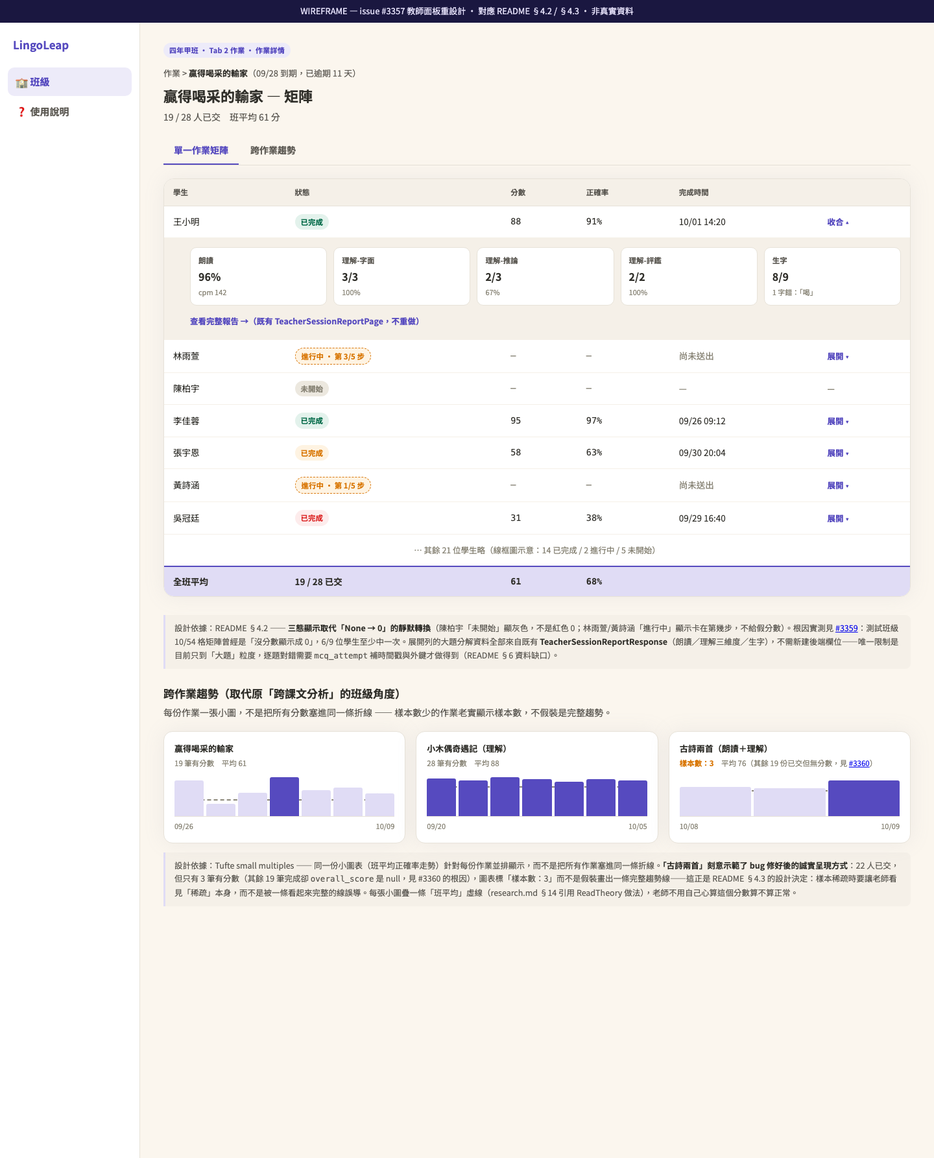
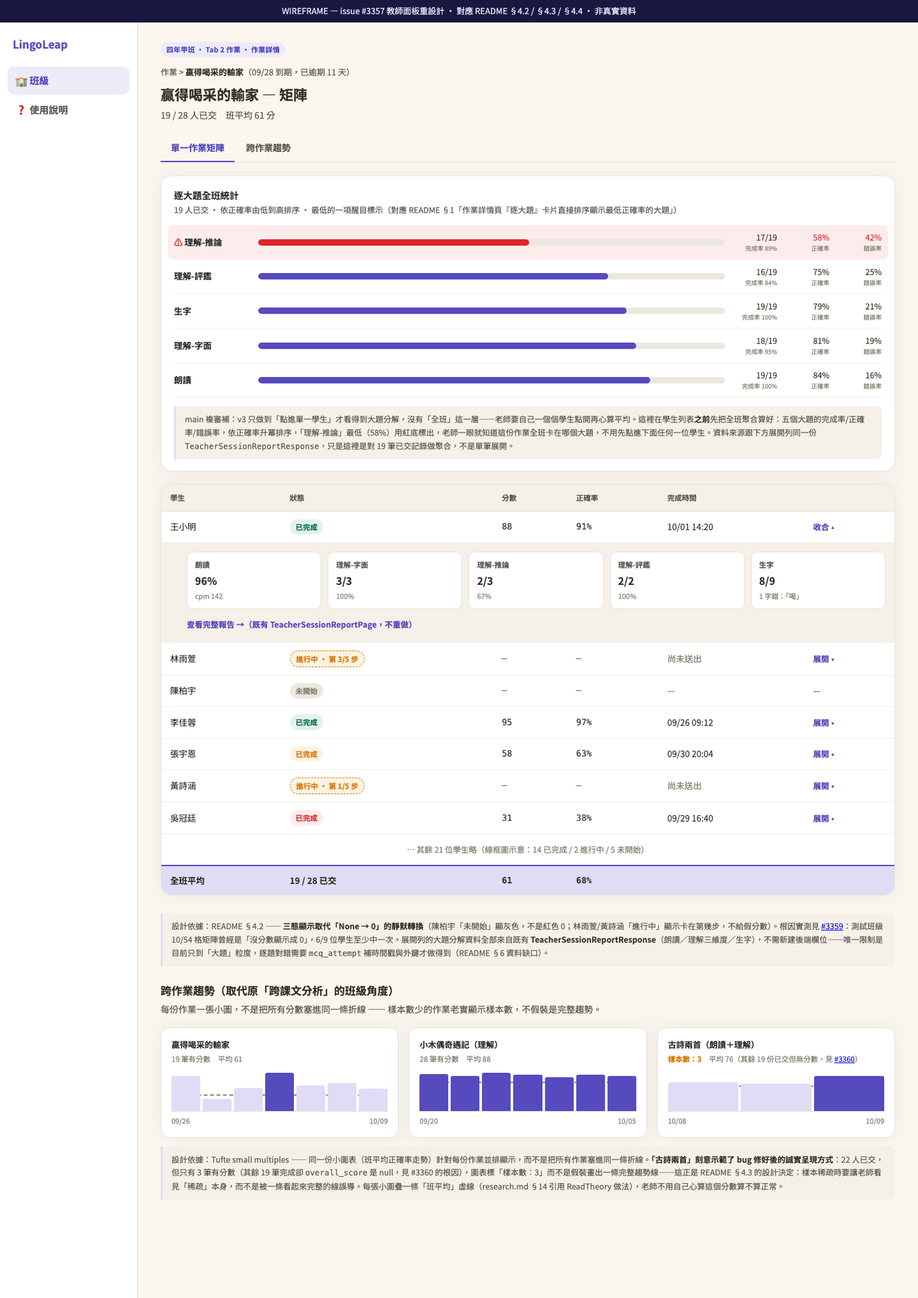
docs(#3357): add back class-wide assignment matrix + per-item class stats
main's review of PR #3365 caught two gaps against the original feedback
that v3 had lost:

1. The original teacher feedback literally asked for a "student x all
   assignments" grid ("矩陣那裡只看他出的作業……看懂每次上課的作業完成
   度") — v3 had split this into a today-overview assignment list plus a
   per-assignment student table, losing the single glanceable overview.
   Restored as README §4.1 + a new "班級作業總表" view in
   wireframes/assignments.html: 28 students x 6 assignments, sticky first
   row/column, 4 cell states (completed-with-score / in-progress /
   not-started / not-assigned — the last one demonstrated with a student
   who joined the class after an assignment was created, since
   AssignmentSubmission rows are only bulk-created at assignment-creation
   time per assignment_lifecycle_service.py).

2. README §1 already claimed "作業詳情頁『逐大題』卡片直接排序顯示最低
   正確率的大題" but assignment-matrix.html only had per-student expand
   rows, never a class-wide aggregate. Added a "逐大題全班統計" block at
   the top of the single-assignment matrix (README §4.3): completion
   rate / accuracy / error rate per sub-item (reading / literal /
   inferential / evaluative comprehension / vocab), sorted ascending by
   accuracy, worst one flagged.

README §4 renumbered (4.1 class matrix [new] / 4.2 root cause / 4.3
single-assignment design incl. new class-wide stats / 4.4 cross-
assignment trend) with every cross-reference in §2.2, §8, §10, §11,
§12, §13 updated to match. Both wireframes re-screenshotted and read
[…]

diff --git a/docs/design/teacher-panel-redesign/wireframes/assignments.html b/docs/design/teacher-panel-redesign/wireframes/assignments.html
@@ -59,10 +59,32 @@
   .section-title { font-size:15px; font-weight:700; margin:28px 0 4px; }
   .library-badge { font-size:11px; font-weight:700; color:var(--accent); }
   .wizard-note { font-size:12.5px; color:var(--on-surface-variant); }
+
+  /* 班級作業總表（§4.1）—— 學生 × 全部作業格狀矩陣 */
+  .viewtabs { display:flex; gap:2px; border-bottom:1px solid var(--surface-high); margin:0 0 18px; }
+  .viewtab { padding:10px 16px; font-size:14px; font-weight:700; color:var(--on-surface-variant); border-bottom:2.5px solid transparent; }
+  .viewtab.active { color:var(--accent); border-bottom-color:var(--accent); }
+  .matrix-scroll { overflow-x:auto; }
+  table.overview-matrix { border-collapse:separate; border-spacing:0; font-size:13px; min-width:860px; }
+  table.overview-matrix th, table.overview-matrix td { padding:8px 10px; border-bottom:1px solid var(--surface-low); border-right:1px solid var(--surface-low); text-align:center; white-space:nowrap; }
+  table.overview-matrix thead th { background:var(--surface-low); font-size:11px; color:var(--on-surface-variant); font-weight:700; position:sticky; top:0; z-index:2; }
+  table.overview-matrix thead th.stu-col-head { text-align:left; position:sticky; left:0; top:0; z-index:3; background:var(--surface-low); }
+  table.overview-matrix td.stu-col { text-align:left; font-weight:600; position:sticky; left:0; background:var(--surface-0); z-index:1; border-right:1px solid var(--surface-high); }
+  table.overview-matrix th.assign-col { cursor:default; }
+  table.overview-matrix th.assign-col .link { font-size:11.5px; }
+  .ov-cell { display:inline-flex; align-items:center; justify-content:center; min-width:34px; height:24px; border-radius:6px; font-weight:800; font-size:12px; }
+  .ov-done-high { background:var(--success-bg); color:var(--success); }
+  .ov-done-mid { background:var(--warning-bg); color:var(--warning); }
+  .ov-done-low { background:var(--error-bg); color:var(--error); }
+  .ov-inprogress { background:var(--surface-0); color:var(--warning); border:1px dashed var(--warning); font-size:10.5px; font-weight:700; }
+  .ov-notstarted { color:var(--on-surface-faint); }
+  .ov-unassigned { background:repeating-linear-gradient(135deg, var(--surface-low), var(--surface-low) 4px, var(--surface-container) 4px, var(--surface-container) 8px); color:var(--on-surface-faint); font-size:10px; }
+  .matrix-legend { display:flex; gap:16px; flex-wrap:wrap; font-size:12px; color:var(--on-surface-variant); margin:10px 0 0; }
+  .matrix-legend .lg-item { display:flex; align-items:center; gap:6px; }
 </style>
 </head>
 <body>
-<div class="wf-banner">WIREFRAME — issue #3357 教師面板重設計 · 對應 README §3 / §4.3 · 非真實資料</div>
+<div class="wf-banner">WIREFRAME — issue #3357 教師面板重設計 · 對應 README §3 / §4.1 / §4.4 · 非真實資料</div>
 <div class="wf-shell">
   <div class="wf-sidebar">
     <div class="wf-logo">LingoLeap</div>
@@ -87,6 +109,108 @@
       <span class="tab">錯字總表</span>
       <span class="tab">協同教師</span>
     </div>
+
+    <div class="viewtabs">
+      <span class="viewtab active">班級作業總表（預設畫面）</span>
+      <span class="viewtab">清單檢視</span>
+    </div>
+
+    <div class="wf-card" style="padding:18px 20px 14px;">
+      <div class="section-title" style="margin-bottom:2px;">班級作業總表（學生 × 全部作業）</div>
+      <p class="wizard-note" style="margin-bottom:14px;">回應現場回饋「矩陣那裡只看他出的作業……看懂每次上課的作業完成度」—— 一張格子看完整班全部正式作業的完成狀況，不用一份一份作業點進去。點欄位頂端的作業名稱 → 進入該作業的單一作業矩陣（逐大題統計＋橫向展開）；點列首學生姓名 → 進入學生個人頁。</p>
+      <div class="matrix-scroll">
+        <table class="overview-matrix">
+          <thead>
+            <tr>
+              <th class="stu-col-head">學生</th>
+              <th class="assign-col"><span class="link">贏得喝采的輸家</span><br>09/28 逾期</th>
+              <th class="assign-col"><span class="link">古詩兩首</span><br>10/09 今天</th>
+              <th class="assign-col"><span class="link">小木偶奇遇記</span><br>10/05 已過期</th>
+              <th class="assign-col"><span class="link">月亮的秘密</span><br>10/16</th>
+              <th class="assign-col"><span class="link">阿嬤的菜園</span><br>10/23</th>
+              <th class="assign-col"><span class="link">科學小偵探</span><br>10/30（草稿）</th>
+            </tr>
+          </thead>
+          <tbody>
+            <tr>
+              <td class="stu-col"><span class="link">王小明</span></td>
+              <td><span class="ov-cell ov-done-high">88</span></td>
+              <td><span class="ov-cell ov-inprogress">3/5</span></td>
+              <td><span class="ov-cell ov-done-high">92</span></td>
+              <td class="ov-notstarted">—</td>
+              <td class="ov-notstarted">—</td>
+              <td><span class="ov-cell ov-unassigned">草稿</span></td>
+            </tr>
+            <tr>
+              <td class="stu-col"><span class="link">林雨萱</span></td>
+              <td><span class="ov-cell ov-inprogress">3/5</span></td>
+              <td class="ov-notstarted">—</td>
+              <td><span class="ov-cell ov-done-high">88</span></td>
+              <td class="ov-notstarted">—</td>
+              <td class="ov-notstarted">—</td>
+              <td><span class="ov-cell ov-unassigned">草稿</span></td>
+            </tr>
+            <tr>
+              <td class="stu-col"><span class="link">陳柏宇</span></td>
+              <td class="ov-notstarted">未開始</td>
+              <td class="ov-notstarted">—</td>
+              <td><span class="ov-cell ov-done-mid">64</span></td>
+              <td class="ov-notstarted">—</td>
+              <td class="ov-notstarted">—</td>
+              <td><span class="ov-cell ov-unassigned">草稿</span></td>
+            </tr>
+            <tr>
+              <td class="stu-col"><span class="link">李佳蓉</span></td>
+              <td><span class="ov-cell ov-done-high">95</span></td>
+              <td><span class="ov-cell ov-done-high">91</span></td>
+              <td><span class="ov-cell ov-done-high">97</span></td>
+              <td><span class="ov-cell ov-done-high">90</span></td>
+              <td class="ov-notstarted">—</td>
+              <td><span class="ov-cell ov-unassigned">草稿</span></td>
+            </tr>
+            <tr>
+              <td class="stu-col"><span class="link">張宇恩</span></td>
+              <td><span class="ov-cell ov-done-mid">58</span></td>
+              <td class="ov-notstarted">未開始</td>
+              <td><span class="ov-cell ov-done-mid">61</span></td>
+              <td class="ov-notstarted">—</td>
+              <td class="ov-notstarted">—</td>
+              <td><span class="ov-cell ov-unassigned">草稿</span></td>
+            </tr>
+            <tr>
+              <td class="stu-col"><span class="link">吳冠廷</span></td>
+              <td><span class="ov-cell ov-done-low">31</span></td>
+              <td><span class="ov-cell ov-inprogress">1/5</span></td>
+              <td><span class="ov-cell ov-done-low">45</span></td>
+              <td class="ov-notstarted">—</td>
+              <td class="ov-notstarted">—</td>
+              <td><span class="ov-cell ov-unassigned">草稿</span></td>
+            </tr>
+            <tr>
+              <td class="stu-col" style="color:var(--on-surface-faint);">邱柏丞<span style="font-size:10px; font-weight:400;">（10/02 新轉入）</span></td>
+              <td><span class="ov-cell ov-unassigned">未指派</span></td>
+              <td class="ov-notstarted">未開始</td>
+              <td><span class="ov-cell ov-unassigned">未指派</span></td>
+              <td class="ov-notstarted">—</td>
+              <td class="ov-notstarted">—</td>
+              <td><span class="ov-cell ov-unassigned">草稿</span></td>
+            </tr>
+            <tr>
+              <td colspan="7" style="text-align:center; color:var(--on-surface-faint); font-size:12px; padding:10px;">… 其餘 21 位學生略（線框圖示意）</td>
+            </tr>
+          </tbody>
+        </table>
+      </div>
+      <div class="matrix-legend">
+        <span class="lg-item"><span class="ov-cell ov-done-high">88</span> 已完成（依分數上色）</span>
+        <span class="lg-item"><span class="ov-cell ov-inprogress">3/5</span> 進行中（第幾步）</span>
+        <span class="lg-item" style="color:var(--on-surface-faint);">— 未開始</span>
+        <span class="lg-item"><span class="ov-cell ov-unassigned">未指派</span> 不在此作業指派名單內</span>
+      </div>
+      <p class="annotation">設計依據：README §4.1 —— main 複審指出 v3 漏掉這張「學生 × 全部作業」總表，只拆成清單＋單一作業矩陣，老師仍要一份一份點進去拼湊完成度全貌。第一欄（學生）與第一列（作業）皆 <code>position:sticky</code>，橫向很多份作業、縱向很多學生時仍看得到對照軸。「邱柏丞」示範<b>未指派</b>狀態的真實成因：10/02 才轉入班級，而 <code>assignment_lifecycle_service.py</code> 的 <code>AssignmentSubmission</code> 是在建立作業當下對「當時」在班學生批次建立，之後轉入的學生不會回溯補上——這不是 bug，是設計決定，但矩陣要誠實呈現這個狀態，不能跟「未開始」混在一起（未指派 = 系統沒有要求他做；未開始 = 系統要求了但他還沒動手，兩者對老師的下一步行動完全不同）。</p>
+    </div>
+
+    <p class="wizard-note" style="margin:4px 0 18px;">↓ 清單檢視（既有畫面，點上方「清單檢視」或任一作業的「查看矩陣」也可切換到對應頁）</p>
 
     <div class="row-between">
       <div class="pillbar">

diff --git a/docs/design/teacher-panel-redesign/wireframes/assignment-matrix.html b/docs/design/teacher-panel-redesign/wireframes/assignment-matrix.html
@@ -72,10 +72,25 @@
   .sm-avgline::after { content:"班平均"; position:absolute; right:0; top:-14px; font-size:9.5px; color:var(--on-surface-faint); background:var(--surface-0); padding:0 3px; }
   .sm-footer { display:flex; justify-content:space-between; font-size:11px; color:var(--on-surface-faint); margin-top:6px; }
   .sparse-tag { color:var(--warning); font-weight:700; }
+
+  /* 逐大題全班統計（§4.3，main 複審補） */
+  .item-stats-card { background:var(--surface-0); border:1px solid var(--surface-high); border-radius:16px; padding:18px 20px; box-shadow:var(--shadow-card); margin-bottom:20px; }
+  .item-stats-title { font-size:14.5px; font-weight:700; margin:0 0 2px; }
+  .item-stats-sub { font-size:12.5px; color:var(--on-surface-variant); margin:0 0 14px; }
+  .item-row { display:grid; grid-template-columns:120px 1fr 70px 70px 70px; align-items:center; gap:12px; padding:9px 0; border-bottom:1px solid var(--surface-low); }
+  .item-row:last-child { border-bottom:none; }
+  .item-row.worst { background:var(--error-bg); margin:0 -10px; padding:9px 10px; border-radius:8px; border-bottom:none; }
+  .item-name { font-size:13.5px; font-weight:700; }
+  .item-row.worst .item-name::before { content:"⚠ "; color:var(--error); }
+  .item-bar-wrap { height:10px; background:var(--surface-container); border-radius:5px; overflow:hidden; }
+  .item-bar-fill { height:100%; background:var(--accent); border-radius:5px; }
+  .item-row.worst .item-bar-fill { background:var(--error); }
+  .item-stat-num { font-size:12.5px; text-align:right; font-variant-numeric:tabular-nums; }
+  .item-stat-label { font-size:9.5px; color:var(--on-surface-faint); display:block; text-align:right; }
 </style>
 </head>
 <body>
-<div class="wf-banner">WIREFRAME — issue #3357 教師面板重設計 · 對應 README §4.2 / §4.3 · 非真實資料</div>
+<div class="wf-banner">WIREFRAME — issue #3357 教師面板重設計 · 對應 README §4.2 / §4.3 / §4.4 · 非真實資料</div>
 <div class="wf-shell">
   <div class="wf-sidebar">
     <div class="wf-logo">LingoLeap</div>
@@ -94,6 +109,49 @@
     </div>
 
     <!-- ========== VIEW 1：單一作業矩陣 ========== -->
+
+    <div class="item-stats-card">
+      <div class="item-stats-title">逐大題全班統計</div>
+      <div class="item-stats-sub">19 人已交 · 依正確率由低到高排序 · 最低的一項醒目標示（對應 README §1「作業詳情頁『逐大題』卡片直接排序顯示最低正確率的大題」）</div>
+
+      <div class="item-row worst">
+        <div class="item-name">理解-推論</div>
+        <div class="item-bar-wrap"><div class="item-bar-fill" style="width:58%;"></div></div>
+        <div><div class="item-stat-num">17/19</div><span class="item-stat-label">完成率 89%</span></div>
+        <div><div class="item-stat-num" style="color:var(--error);">58%</div><span class="item-stat-label">正確率</span></div>
+        <div><div class="item-stat-num" style="color:var(--error);">42%</div><span class="item-stat-label">錯誤率</span></div>
+      </div>
+      <div class="item-row">
+        <div class="item-name">理解-評鑑</div>
+        <div class="item-bar-wrap"><div class="item-bar-fill" style="width:75%;"></div></div>
+        <div><div class="item-stat-num">16/19</div><span class="item-stat-label">完成率 84%</span></div>
+        <div><div class="item-stat-num">75%</div><span class="item-stat-label">正確率</span></div>
+        <div><div class="item-stat-num">25%</div><span class="item-stat-label">錯誤率</span></div>
+      </div>
+      <div class="item-row">
+        <div class="item-name">生字</div>
+        <div class="item-bar-wrap"><div class="item-bar-fill" style="width:79%;"></div></div>
+        <div><div class="item-stat-num">19/19</div><span class="item-stat-label">完成率 100%</span></div>
+        <div><div class="item-stat-num">79%</div><span class="item-stat-label">正確率</span></div>
+        <div><div class="item-stat-num">21%</div><span class="item-stat-label">錯誤率</span></div>
+      </div>
+      <div class="item-row">
+        <div class="item-name">理解-字面</div>
+        <div class="item-bar-wrap"><div class="item-bar-fill" style="width:81%;"></div></div>
+        <div><div class="item-stat-num">18/19</div><span class="item-stat-label">完成率 95%</span></div>
+        <div><div class="item-stat-num">81%</div><span class="item-stat-label">正確率</span></div>
+        <div><div class="item-stat-num">19%</div><span class="item-stat-label">錯誤率</span></div>
+      </div>
+      <div class="item-row">
+        <div class="item-name">朗讀</div>
+        <div class="item-bar-wrap"><div class="item-bar-fill" style="width:84%;"></div></div>
+        <div><div class="item-stat-num">19/19</div><span class="item-stat-label">完成率 100%</span></div>
+        <div><div class="item-stat-num">84%</div><span class="item-stat-label">正確率</span></div>
+        <div><div class="item-stat-num">16%</div><span class="item-stat-label">錯誤率</span></div>
+      </div>
+      <p class="annotation" style="margin:14px 0 0;">main 複審補：v3 只做到「點進單一學生」才看得到大題分解，沒有「全班」這一層——老師要自己一個個學生點開再心算平均。這裡在學生列表<b>之前</b>先把全班聚合算好：五個大題的完成率/正確率/錯誤率，依正確率升冪排序，「理解-推論」最低（58%）用紅底標出，老師一眼就知道這份作業全班卡在哪個大題，不用先點進下面任何一位學生。資料來源跟下方展開列同一份 <code>TeacherSessionReportResponse</code>，只是這裡是對 19 筆已交記錄做聚合，不是單筆展開。</p>
+    </div>
+
     <div class="wf-card">
       <table>
         <thead><tr><th>學生</th><th>狀態</th><th>分數</th><th>正確率</th><th>完成時間</th><th></th></tr></thead>

diff --git a/docs/design/teacher-panel-redesign/README.md b/docs/design/teacher-panel-redesign/README.md
@@ -2,7 +2,7 @@
 
 > 🤖 由 Claude AI 代發（非 Young 本人）— 本文件為設計規格草案，供工程實作前討論，不含程式改動。
 > Epic: #3357　資料異常復現票：[#3359](https://github.com/Youngger9765/chinese-literacy-platform/issues/3359)（矩陣 0 分）／[#3360](https://github.com/Youngger9765/chinese-literacy-platform/issues/3360)（跨作業趨勢分組錯誤）／[#3364](https://github.com/Youngger9765/chinese-literacy-platform/issues/3364)（早期介入門檻過嚴＋兩套系統並存）
-> 狀態：草案 v3（三個資料假說已用 staging 真資料驗證並量化，競品依據已整合進 §10；仍待確認項見 §11）
+> 狀態：草案 v4（main 複審指出 v3 漏掉「班級層級的學生 × 全部作業矩陣」與「逐大題全班統計」兩處，已補進 §4.1/§4.3 並重新出圖；三個資料假說已用 staging 真資料驗證並量化，競品依據已整合進 §10；仍待確認項見 §11）
 
 ## 0. 這份文件要解決什麼
 
@@ -43,8 +43,9 @@
    │    └─ 班級資訊／加入代碼（既有）＋ 班級切換器（新）＋ 學生名單（新併入，手風琴收合，預設收合）
    ├─ Tab 1　今日總覽（新）—— 待交作業／課堂即時／需要關注的學生，三張卡片，取代老師「登入後到底先看哪」的空白（課堂即時的去向見 §9）
    ├─ Tab 2　作業（合併「作業管理」與「課文管理」—— 見 §3）
-   │    └─ 點進單一作業 → 作業 × 學生矩陣（只看這份作業）→ 點學生 × 作業 cell → 橫向展開大題分解（見 §4）
-   │    └─ 跨作業趨勢（取代原「跨課文分析」的班級角度，見 §4.3）
+   │    └─ 預設畫面：班級作業總表（學生 × 全部作業的格狀總表，見 §4.1）
+   │    └─ 點作業名 → 單一作業矩陣（只看這份作業，含逐大題全班統計 + 橫向展開）（見 §4.3）
+   │    └─ 跨作業趨勢（取代原「跨課文分析」的班級角度，見 §4.4）
    ├─ Tab 3　學生自學總覽（新，從矩陣移出的自學紀錄 —— 見 §7）
    ├─ Tab 4　早期介入（維持，但修資料管線 —— 見 §5）
    ├─ Tab 5　錯字總表（原「錯字熱力圖」，更名避免跟班級表現矩陣的顏色編碼混淆；內容不變，見 §2.4）
@@ -83,9 +84,28 @@
 - 「建立作業」表單的課文挑選器優先顯示已在自學課文庫的課文（體感更快、符合現有 `#997` 的同步邏輯），但仍可搜尋全部課文。
 - 加入作業時既有的自動同步（#997）維持不變——這是本來就在跑且被學生端依賴的行為，不可移除。
 
-## 4. 作業 × 學生矩陣：只看作業、可橫向展開
+## 4. 作業：班級總表、單一作業矩陣、跨作業趨勢
 
-### 4.1 現況根因（已用程式碼直接核對，非猜測）
+> ⚠ 本節 v3 曾經把「班級表現矩陣」直接拆成「今日總覽的作業清單」+「單一作業的學生列表」，少做了一件事：老師原話要的矩陣是**一張全班學生 × 老師出的所有作業的格狀總表**（「矩陣那裡只看他出的作業……看懂每次上課的作業完成度」），不是要老師一份一份作業點進去看。§4.1 補回這張總表，§4.3 也補回「逐大題」在**全班層級**的統計（原本只做到個別學生展開）。
+
+### 4.1 班級作業總表（學生 × 全部作業，新補回）
+
+「作業」tab 的預設畫面（而不是直接看作業清單）：**一張格狀表，第一欄固定學生姓名、第一列固定作業名稱**，每一格是「這位學生對這份作業」的狀態，共 4 種：
+
+| 狀態 | 顯示 | 意義 |
+|---|---|---|
+| 已完成 | 分數（依分數上色）| 這份作業已交且已算分 |
+| 進行中 | 黃框，顯示卡在第幾步 | 已開始但尚未送出 |
+| 未開始 | 灰色「—」 | 已指派但這位學生還沒動手 |
+| 未指派 | 淡灰斜線 | 這位學生不在這份作業的指派名單內（例如作業建立後才加入班級的學生——`assignment_lifecycle_service.py` 的 `AssignmentSubmission` 是在建立作業當下對「當時」的在班學生批次建立，之後才加入的學生不會回溯補上） |
+
+點作業名稱（第一列表頭）即可切換到 §4.3 的「單一作業矩陣」看這份作業的完整細節（逐大題統計＋橫向展開）；點學生名稱可切換到 §8 學生個人頁。這張總表本身**只顯示總分**，不做逐大題展開——逐大題統計是進到單一作業後才看的量（§4.3），兩層資訊密度分開，避免一次塞進 28×6×5 個數字（Tufte data-ink：總表只回答「誰還沒交、誰考差了」，不需要在總表層級就攤開大題）。
+
+**資料面**：跟 §4.3 單一作業矩陣同一支查詢邏輯，只是維度反過來——這裡是「這個班所有 `Assignment` × 這個班所有學生」的交叉表，§4.3 是「固定一份 `Assignment`」之後的學生列表。沒有新 schema 需求，差別只在後端查詢要跨多份 `Assignment` 聚合。
+
+**競品依據**：這張總表的形狀直接對應 research.md 裡 **Google Classroom 的 Gradebook**——rows=學生、cols=作業、cell=分數，紅/綠/黑三色一眼辨識缺交/已交/已退回（research.md §1）。我們多做的是「未指派」第四態與分數以外的三態顯示（§4.2 根因之後不能再讓「沒分數」跟「0 分」同色）。
+
+### 4.2 單一作業矩陣的現況根因（已用程式碼直接核對，非猜測）
 
 `backend/app/routes/teacher/teacher_analytics.py:159-260`（`get_classroom_heatmap`，前端叫它「矩陣」其實是 `/heatmap` API）：
 
@@ -97,17 +117,18 @@
 
 ✅ **已用 staging 真資料驗證，不再是推論**——見 [#3359](https://github.com/Youngger9765/chinese-literacy-platform/issues/3359)：測試班級（id=9，10 位學生）54 格矩陣裡有 **10 格（18.5%）顯示紅色 0 分，但實際上是 6 筆 `abandoned`／1 筆 `in_progress`／3 筆 `completed` 但 `overall_score` 為 null** ——沒有一筆是真的考 0 分。**6/9 位有練習紀錄的學生**至少命中一次假 0，其中 6/10 筆集中在同一篇課文（story 20011「贏得喝采的輸家」），代表除了這個顯示邏輯，這篇課文的評分管線本身可能也有獨立問題。
 
-### 4.2 設計方案
+### 4.3 單一作業矩陣：逐大題全班統計 + 只看作業 + 可橫向展開
 
 - **過濾**：矩陣預設只吃 `session_mode == "assignment"`（且進一步限定在該份 `Assignment` 的 `AssignmentSubmission.session_id`，精準對到「這份作業」而非「這個學生對這篇課文做過的任何一次」）。自學紀錄完全移出矩陣，改在 Tab 3「學生自學總覽」單獨呈現（同樣的 heatmap 元件，資料源換成 `session_mode == "self_study"`，色階用不同底色避免老師搞混兩張表在講不同的事——Tufte 的 graphical integrity：同一視覺語言代表不同語意會誤導判讀，顏色要變但座標軸結構保持一致，方便老師用同一套讀圖習慣）。
 - **未完成 ≠ 0 分**：三態顯示——`未開始`（灰，無底色）／`進行中`（黃框，顯示目前卡在第幾步，不給分數）／`已完成`（照分數上色）。沒有 `None → 0` 的靜默轉換。
+- **頁面頂部：逐大題全班統計（新補回，對應 F3c）**——在學生列表**之前**先放一塊「這份作業、全班、每個大題」的統計：朗讀／理解-字面／理解-推論／理解-評鑑／生字，各自列**完成率**（這個大題有多少人做到）／**正確率**／**錯誤率**，**依正確率由低到高排序**，正確率最低的那項用紅色/醒目樣式標出。這是回應 §1 表格裡「作業詳情頁『逐大題』卡片直接排序顯示最低正確率的大題」的具體實作——之前只做到「個別學生展開」的大題卡片，沒有「全班」這一層聚合，等於老師要自己一個個學生點開再心算平均，這次補上系統直接算好的全班聚合，省掉老師心算。
 - **橫向展開（點 cell 展開列）**：資料大部分現成，不用建新表——`backend/app/routes/teacher/teacher_student_reports.py:58-78`（`TeacherSessionReportResponse`）已經回傳 `reading_result` / `comprehension_result`（含 `literal_score`／`inferential_score`／`evaluative_score`）/ `vocab_result` / `step_progress`。展開列顯示這些大題（朗讀／理解-字面／理解-推論／理解-評鑑／生字）各自的完成與正確率小卡，並附「查看完整報告」連到既有的 `TeacherSessionReportPage`（`/teacher/students/:id/sessions/:id/report`）。
   - ⚠ **這不等於「每一題」的逐題對錯清單**。目前對外的作業提交 schema（`backend/schemas/assignment.py:80-92`）只到分數/朗讀正確率/cpm/錯字數這個粒度；真正逐題（例如某一題選錯哪個選項）要靠 `mcq_attempt` 表（見 §6），但它目前**沒有** FK 連回 `AssignmentSubmission` 或 `LearningSession`，所以「逐大題」展開做得到，「逐題」清單目前做不到——本文件的矩陣展開列只到大題粒度，逐題是另一個待補的資料缺口（§6）。
-- **大題子欄集合依作業動態產生，不寫死**：依 `backend/app/models/assignment.py` 與 `session.py` 的 step 設計，不同課文/作業可能配置不同步驟組合（參 `frontend/src/config/stepConfig.ts` 的 step 清單遠多於後端目前算分用的 6 類），寫死欄位會在某些作業上顯示假的「未完成」。
+- **大題子欄集合依作業動態產生，不寫死**：依 `backend/app/models/assignment.py` 與 `session.py` 的 step 設計，不同課文/作業可能配置不同步驟組合（參 `frontend/src/config/stepConfig.ts` 的 step 清單遠多於後端目前算分用的 6 類），寫死欄位會在某些作業上顯示假的「未完成」。全班統計的「大題清單」要跟這份作業實際配置的 step 一致，不是寫死固定 5 項。
 
-### 4.3 跨作業趨勢（取代原「跨課文分析」的班級角度）
+### 4.4 跨作業趨勢（取代原「跨課文分析」的班級角度）
 
-**現況根因**（經 competitor-research 與 teacher-code-inventory 兩次獨立核對一致）：`backend/app/services/cross_text_analysis_service.py` 的 `analyze_class_cross_text_patterns` 只保留「`status == 'completed'` 且 `overall_score` 非 null」的 session（跟 §4.1 是同一種資料缺口的另一個症狀）；前端對應元件在資料點少於 2 筆時也會隱藏趨勢線。老師回饋「只採計三筆高分紀錄」的現象，根因推論是**符合雙重篩選條件的 session 本來就只剩極少數**，不是程式寫死只取 3 筆。
+**現況根因**（經 competitor-research 與 teacher-code-inventory 兩次獨立核對一致）：`backend/app/services/cross_text_analysis_service.py` 的 `analyze_class_cross_text_patterns` 只保留「`status == 'completed'` 且 `overall_score` 非 null」的 session（跟 §4.2 是同一種資料缺口的另一個症狀）；前端對應元件在資料點少於 2 筆時也會隱藏趨勢線。老師回饋「只採計三筆高分紀錄」的現象，根因推論是**符合雙重篩選條件的 session 本來就只剩極少數**，不是程式寫死只取 3 筆。
 
 ✅ **已用 staging 真資料驗證**——見 [#3360](https://github.com/Youngger9765/chinese-literacy-platform/issues/3360)：除了上述的「無分數 session 被丟棄」，還找到第二個獨立機制——趨勢分組用的是 `started_at`（練習**建立**時間）而非 `completed_at`（練習**完成**時間），且前端用物件 key 覆蓋同一天的多筆資料。實測學生 id=1312 有 **10 筆真實分數橫跨 10 個不同完成日**（67.6→93.0，是一條完整的進步曲線），但這 10 筆的 `started_at` **全部是同一天**，分組後折線圖只剩 **1 個點**。這正是「只採計三筆高分紀錄」字面現象背後的具體機制——不是刻意只取 3 筆，是分組欄位選錯＋資料被悄悄丟棄兩個問題疊加。
 
@@ -172,7 +193,7 @@
 - 學生頭卡：姓名、所屬班級（可切換）、整體正確率
 - 標籤管理（既有 `StudentTagManager`：需要關注／閱讀困難／進步中／資優，手動標記不變）
 - 個人指導紀錄（既有 `TeacherInstructionPanel`：老師寫給這個學生的一般性提醒，跟 `AssignmentSubmission.teacher_feedback`——針對單次提交的評語——是兩層不同粒度的回饋，不合併）
-- **本學期作業表現**：每筆作業一列，可展開看每個大題（同 §4.2 矩陣展開列的元件，重用不重做）——這是修「看不到他們錯在哪」的核心，展開後連到既有 `TeacherSessionReportPage` 看完整報告
+- **本學期作業表現**：每筆作業一列，可展開看每個大題（同 §4.3 矩陣展開列的元件，重用不重做）——這是修「看不到他們錯在哪」的核心，展開後連到既有 `TeacherSessionReportPage` 看完整報告
 - **長期趨勢**：吸收原「跨課文分析」的個人視角（`CrossTextChartGrid` 的 `StudentDetailPanel`）跟原「學生進度」tab 既有的學習曲線圖（`StudentExpandedPanel.tsx` 的 `buildCurveChartData`）——這兩支目前是重工的兩套元件，做同一件事（單一學生跨課文/跨時間的分數曲線），合併成一個圖表，避免兩套邏輯各自維護、對不上的風險
 - 自學紀錄（獨立分區，同矩陣頁的視覺分隔邏輯，見 §7）
 - 早期介入狀態（若此生被標記，直接在此顯示訊號+建議，與早期介入頁同步，不是兩套文案——對應問題陳述「分數和入班觀察有落差，不確定是資料收集還是判定問題」的信任缺口：同一件事只能有一個答案）
@@ -188,14 +209,15 @@
 
 這一節不重複各節已經寫過的理由，只列出**貫穿多個決策、值得單獨點名**的依據：
 
-- **Tufte — data-ink ratio / graphical integrity**：§4.2 矩陣三態顯示（不用 `0` 吃掉「未完成」）、§4.3 跨作業趨勢改用 small multiples 而非單一折線、§7 自學紀錄與作業矩陣用不同色階但相同座標結構——三者共同的原則是「視覺上的差異必須對應資料上真實存在的差異」，混用或省略都是對老師判讀的誤導。
-- **Sweller — cognitive load theory / split-attention effect**：§2.2 把 9 個 tab 收斂成 6 個（外在負荷）、§4.2 大題展開做在同一列而非另開頁面（避免要老師同時記住兩處畫面）、§9 課堂即時併入今日總覽（同一時間尺度的資訊不拆兩頁）——三者共同原則是「同一個判斷需要的資訊，不該分散在要求老師自己切換記憶的不同畫面」。
+- **Tufte — data-ink ratio / graphical integrity / small multiples**：§4.1 班級作業總表只顯示總分、不在總表層級塞大題明細（資訊密度分層）、§4.3 矩陣三態顯示（不用 `0` 吃掉「未完成」）＋逐大題全班統計、§4.4 跨作業趨勢改用 small multiples 而非單一折線、§7 自學紀錄與作業矩陣用不同色階但相同座標結構——共同原則是「視覺上的差異必須對應資料上真實存在的差異，資訊密度要分層不要一次攤平」，混用或省略都是對老師判讀的誤導。
+- **Sweller — cognitive load theory / split-attention effect**：§2.2 把 9 個 tab 收斂成 6 個（外在負荷）、§4.1 班級總表讓老師不用一份一份作業點進去才拼湊出完成度全貌（避免跨頁記憶負荷）、§4.3 大題展開做在同一列而非另開頁面（避免要老師同時記住兩處畫面）、§9 課堂即時併入今日總覽（同一時間尺度的資訊不拆兩頁）——共同原則是「同一個判斷需要的資訊，不該分散在要求老師自己切換記憶的不同畫面」。
 - 兩套理論在這份文件裡**互相印證但管的是不同層次**：Tufte 管「畫出來的東西有沒有說謊／有沒有浪費」，Sweller 管「要老師同時處理幾件事會不會超出負荷」。
-- **競品依據（`research.md`，12 個產品，詳細引用見該檔）**：(a) §2.2「今日總覽」是刻意反業界慣例——12 家裡沒有一家把「老師今天該看什麼」做成第一個畫面，多數停在報表目錄層級（research.md §13-1）；(b) §4.2 矩陣三態顯示＋大題展開呼應 Edpuzzle／Wayground 的 item-analysis 下鑽與 Seesaw 的「未開始/進行中/已完成」三態完成狀態（研究證明這是業界已驗證的必要狀態機，不是自創）；(c) §4.3 跨作業趨勢圖可仿 ReadTheory 疊一條「班級平均」參考線，低成本高價值的小改動；(d) §5.2 早期介入的建議呈現可以往 Lexia 的 Action Plan 四分類（需用量提醒／需介入教學／可離線／可嘉獎）靠，比純列風險因子句子更有行動指引（列為本次可選、非必做的下一輪迭代方向）；(e) §6 的猜題/作答時間缺口有 PaGamO 當業界先例佐證，支持列為「值得投資」而非「邊緣需求」。
+- **競品依據（`research.md`，12 個產品，詳細引用見該檔）**：(a) §2.2「今日總覽」是刻意反業界慣例——12 家裡沒有一家把「老師今天該看什麼」做成第一個畫面，多數停在報表目錄層級（research.md §13-1）；(b) **§4.1 班級作業總表直接對應 Google Classroom 的 Gradebook**（rows=學生、cols=作業、cell=分數，紅/綠/黑三色一眼辨識，research.md §1）——這不是新發明，是業界最基本的教師報表形狀；(c) §4.3 矩陣三態顯示＋大題展開呼應 Edpuzzle／Wayground 的 item-analysis 下鑽與 Seesaw 的「未開始/進行中/已完成」三態完成狀態（研究證明這是業界已驗證的必要狀態機，不是自創）；(d) §4.4 跨作業趨勢圖可仿 ReadTheory 疊一條「班級平均」參考線，低成本高價值的小改動；(e) §5.2 早期介入的建議呈現可以往 Lexia 的 Action Plan 四分類（需用量提醒／需介入教學／可離線／可嘉獎）靠，比純列風險因子句子更有行動指引（列為本次可選、非必做的下一輪迭代方向）；(f) §6 的猜題/作答時間缺口有 PaGamO 當業界先例佐證，支持列為「值得投資」而非「邊緣需求」。
 
 ## 11. 待確認 / 待補（誠實列出，不是裝作都解決了）
 
-- [x] ~~§4.1／§4.3／§5.1 的三個資料假說待 staging-repro 驗證~~ — **已完成**，三者都已用 staging 真資料驗證並量化，見 [#3359](https://github.com/Youngger9765/chinese-literacy-platform/issues/3359)（矩陣 0 分）／[#3360](https://github.com/Youngger9765/chinese-literacy-platform/issues/3360)（趨勢分組錯誤）／[#3364](https://github.com/Youngger9765/chinese-literacy-platform/issues/3364)（早期介入門檻過嚴），對應更新已併入 §4.1/§4.3/§5.1 本文
+- [x] ~~§4.2／§4.4／§5.1 的三個資料假說待 staging-repro 驗證~~ — **已完成**，三者都已用 staging 真資料驗證並量化，見 [#3359](https://github.com/Youngger9765/chinese-literacy-platform/issues/3359)（矩陣 0 分）／[#3360](https://github.com/Youngger9765/chinese-literacy-platform/issues/3360)（趨勢分組錯誤）／[#3364](https://github.com/Youngger9765/chinese-literacy-platform/issues/3364)（早期介入門檻過嚴），對應更新已併入 §4.2/§4.4/§5.1 本文
+- [x] ~~矩陣應只看老師作業、橫向展開看大題正確率/錯誤率~~ — main 複審時指出 v3 漏掉「全班層級」兩件事，已補：§4.1 新增班級作業總表（學生 × 全部作業格狀總表，4 態）、§4.3 新增「逐大題全班統計」區塊（5 個大題各自完成率/正確率/錯誤率，依正確率排序並標出最低者）
 - [ ] §5.2「合併兩套早期介入」涉及改 `ClassroomAnalytics.tsx` 的呼叫對象，屬於實作範圍不是本次設計範圍，這裡只記決定
 - [ ] 「學習分析」tab 的常見錯誤 Top 10 跟「錯字總表」內容是否重複，待工程實作階段判斷（不影響本次版面決策：兩者即使重複，合併與否都不改變本文件的導覽樹分組）
 - [ ] `/teacher-home`、`/teacher/my-texts` 兩條孤兒路由——已確認 `/teacher-home` **不是孤兒**（是登入後角色導向 redirect 的實際落地頁，`InlinePages.tsx:83`，不可刪除，新 IA 應維持它是入口）；`/teacher/my-texts`（教師自建教材 CRUD）維持獨立，不併入本次「指派課文→作業」的合併範圍（是第三個概念，見 §3 現況模型），但在新導覽裡目前仍沒有入口——留待下一輪補上入口，不在本次 wireframe 範圍
@@ -209,10 +231,10 @@
 | F1a | 學生名單應放在班級標題區塊裡 | §2.2 班級頁首、§2.3 |
 | F1b | 多班級時比較不會混淆 | §2.3 班級切換器 |
 | F2 | 指派課文指派完只出現在該頁，不會變成作業，應併進作業管理→作業列表 | §3 |
-| F3a | 矩陣分數跟現場使用狀況對不上（多數學生 0 分）| §4.1 |
-| F3b | 矩陣應只看老師作業，自學紀錄放別處 | §4.2、§7 |
-| F3c | 每個作業可橫向展開看大題完成度/正確率/錯誤率 | §4.2 |
-| F4a | 跨課文分析分數趨勢只採計三筆高分紀錄 | §4.3 |
+| F3a | 矩陣分數跟現場使用狀況對不上（多數學生 0 分）| §4.1（班級作業總表）、§4.2（根因）|
+| F3b | 矩陣應只看老師作業，自學紀錄放別處 | §4.1（班級總表只排作業）、§4.3（session_mode 過濾）、§7 |
+| F3c | 每個作業可橫向展開看大題完成度/正確率/錯誤率 | §4.3（逐大題全班統計＋個別學生展開）|
+| F4a | 跨課文分析分數趨勢只採計三筆高分紀錄 | §4.4 |
 | F4b | 早期介入沒有任何建議或標籤 | §5.1、§5.2 |
 | F5 | 有學生沒人看時猜題無法回溯；分數與入班觀察有落差 | §6（猜題資料缺口）、§5.1（accuracy 缺口與信任落差）|
 | F6 | 參考過別人的版面覺得都不直覺 | `research.md`（12 個競品）§13 綜合分析 + §10 本節「競品依據」小節 |
@@ -224,8 +246,8 @@
 | 檔案 | 對應章節 | 假資料規模 |
 |---|---|---|
 | `wireframes/today-overview.html` | §2.2 班級頁首＋§2.3 班級切換器＋Tab 1 今日總覽（§9 課堂即時卡片）—— 頁首是所有 tab 共用的常駐區塊，所以併在同一個檔案裡示範，不另外拆檔 | 28 位學生、3 個可切換班級、6 份作業中今日/逾期各若干、2 位在線、3 位需關注 |
-| `wireframes/assignments.html` | Tab 2 作業列表（§3）| 6 份作業（含逾期/今天到期/未來到期），正式作業/自學課文庫 篩選 |
-| `wireframes/assignment-matrix.html` | 點進單一作業後的矩陣（§4.2、§4.3）| 28 位學生 × 1 份展開示範作業，含全班平均列與跨作業趨勢切換 |
+| `wireframes/assignments.html` | Tab 2 作業——清單檢視（§3）＋班級作業總表（§4.1，學生 × 全部作業格狀總表）| 6 份作業（含逾期/今天到期/未來到期），正式作業/自學課文庫 篩選；總表 28 位學生 × 6 份作業 4 態格子 |
+| `wireframes/assignment-matrix.html` | 點進單一作業後的矩陣（§4.2 根因／§4.3 逐大題全班統計＋橫向展開／§4.4 跨作業趨勢）| 28 位學生 × 1 份展開示範作業，含逐大題全班統計、全班平均列與跨作業趨勢切換 |
 | `wireframes/self-study.html` | Tab 3 學生自學總覽（§7）| 28 位學生、綠色系色階 |
 | `wireframes/early-intervention.html` | Tab 4 早期介入（§5.2）| 28 位學生中 6 位標記（含 1 位「資料不足」狀態）|
 | `wireframes/student-detail.html` | 學生個人頁（§8）| 1 位學生、3 份作業紀錄、標籤+指導紀錄示範 |
